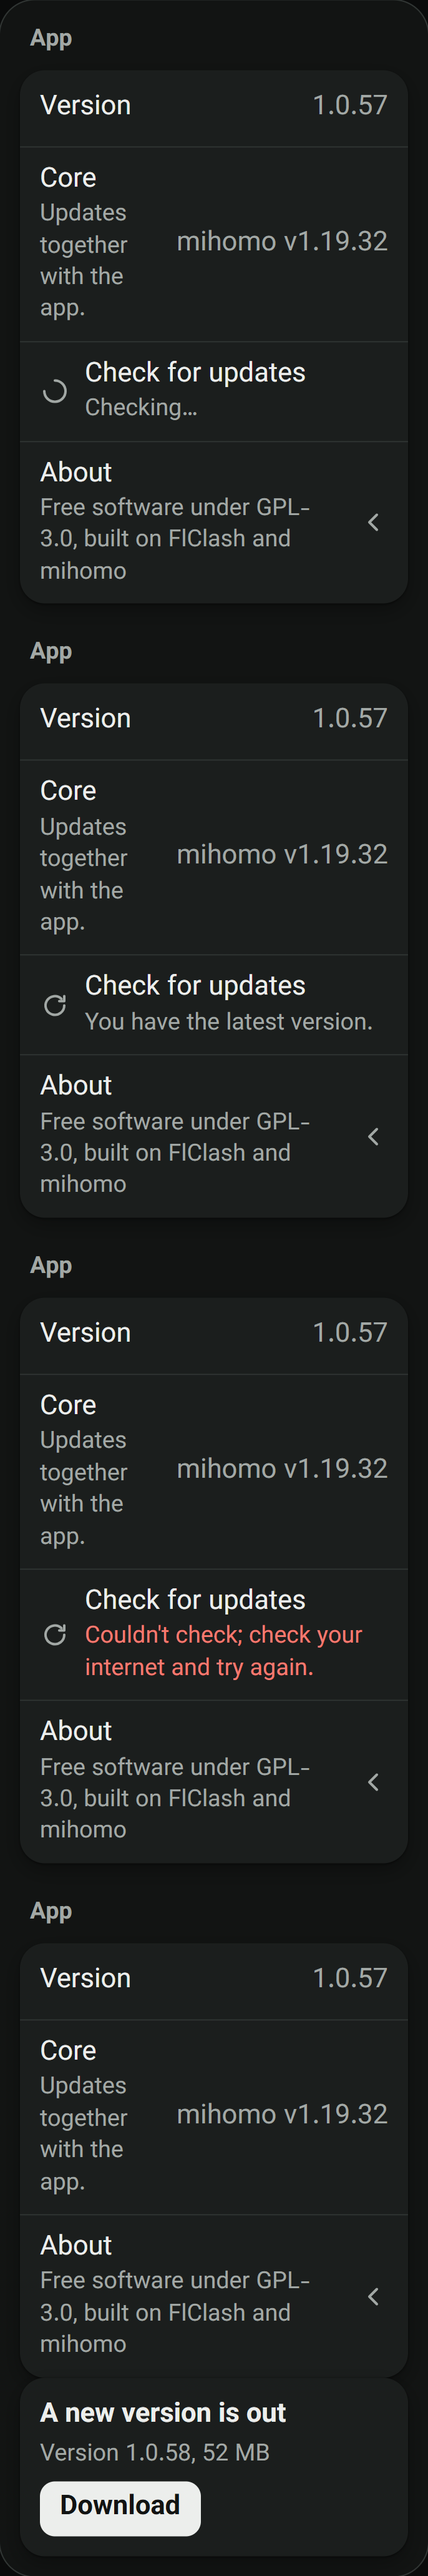
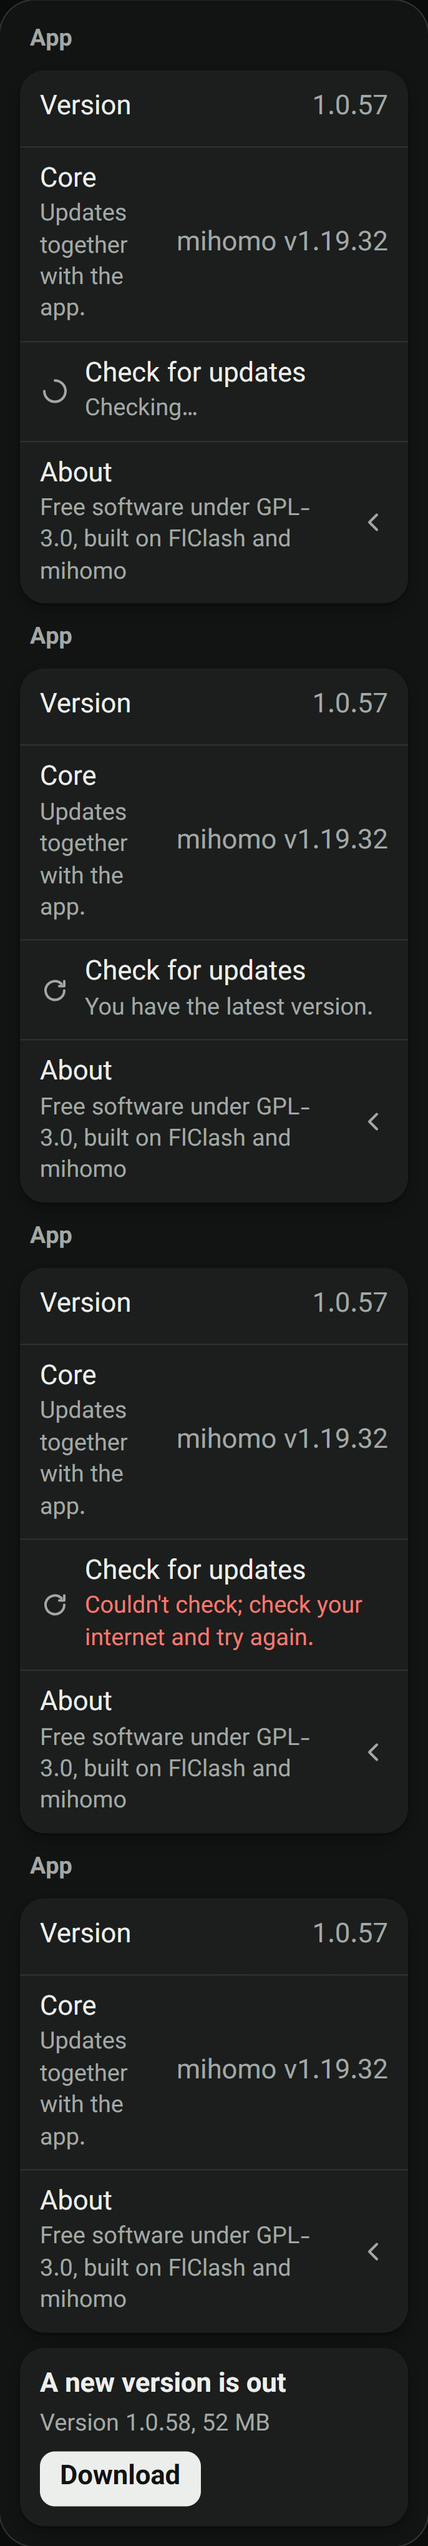
fix(design): space the settings update card with one rule
Replaces a two-selector spacing rule and a frame-only class with
`.card:not(.update) + .update`, which also gives the card its gap
inside the states board, where it touched the App card.

diff --git a/design/mockups/phone-update.html b/design/mockups/phone-update.html
@@ -515,7 +515,7 @@
 
   <figure class="shot">
     <figcaption>تنظیمات · حالتهای «بررسی بهروزرسانی»</figcaption>
-    <div class="cards-stack settings-states" data-frame="phone-cards-settings-app">
+    <div class="cards-stack" data-frame="phone-cards-settings-app">
       <section>
         <h3 class="group-title">اپ</h3>
         <div class="card">
@@ -562,7 +562,7 @@
 
   <figure class="shot">
     <figcaption>گوشی کوچک، قلم ۱٫۴۵ · حالتهای «بررسی بهروزرسانی»</figcaption>
-    <div class="cards-stack small settings-states" data-font-scale style="--font-scale: 1.45" data-frame="phone-cards-settings-app-small">
+    <div class="cards-stack small" data-font-scale style="--font-scale: 1.45" data-frame="phone-cards-settings-app-small">
       <section>
         <h3 class="group-title">اپ</h3>
         <div class="card">
@@ -606,7 +606,7 @@
 
   <figure class="shot">
     <figcaption>گوشی کوچک، قلم ۱٫۴۵ · انگلیسی</figcaption>
-    <div class="cards-stack small settings-states" data-font-scale style="--font-scale: 1.45" dir="ltr" lang="en" data-frame="phone-cards-settings-app-small-en">
+    <div class="cards-stack small" data-font-scale style="--font-scale: 1.45" dir="ltr" lang="en" data-frame="phone-cards-settings-app-small-en">
       <section>
         <h3 class="group-title">App</h3>
         <div class="card">

diff --git a/design/mockups/mockup.css b/design/mockups/mockup.css
@@ -229,7 +229,7 @@ ul { list-style: none; }
 .row small { font-size: var(--text-body-sm); color: var(--color-text-muted); line-height: var(--leading-tight); }
 .row .value { color: var(--color-text-muted); }
 .row small.danger { color: var(--color-danger); }
-.settings .update, .settings-states > section + section { margin-top: var(--space-3); }
+.card:not(.update) + .update { margin-top: var(--space-3); }
 /* دکمهٔ متنیِ انتهای ردیف (حذف سرویس): لمس ۴۸، ولی ردیف را بلند نمیکند و متنش با لبهٔ بقیهٔ ردیفها همتراز است */
 .row > .btn-text { --size-button: var(--size-touch); margin-block: calc(var(--space-2) * -1); margin-inline-end: calc(var(--space-3) * -1); }
 .row .icon { color: var(--color-text-muted); }
